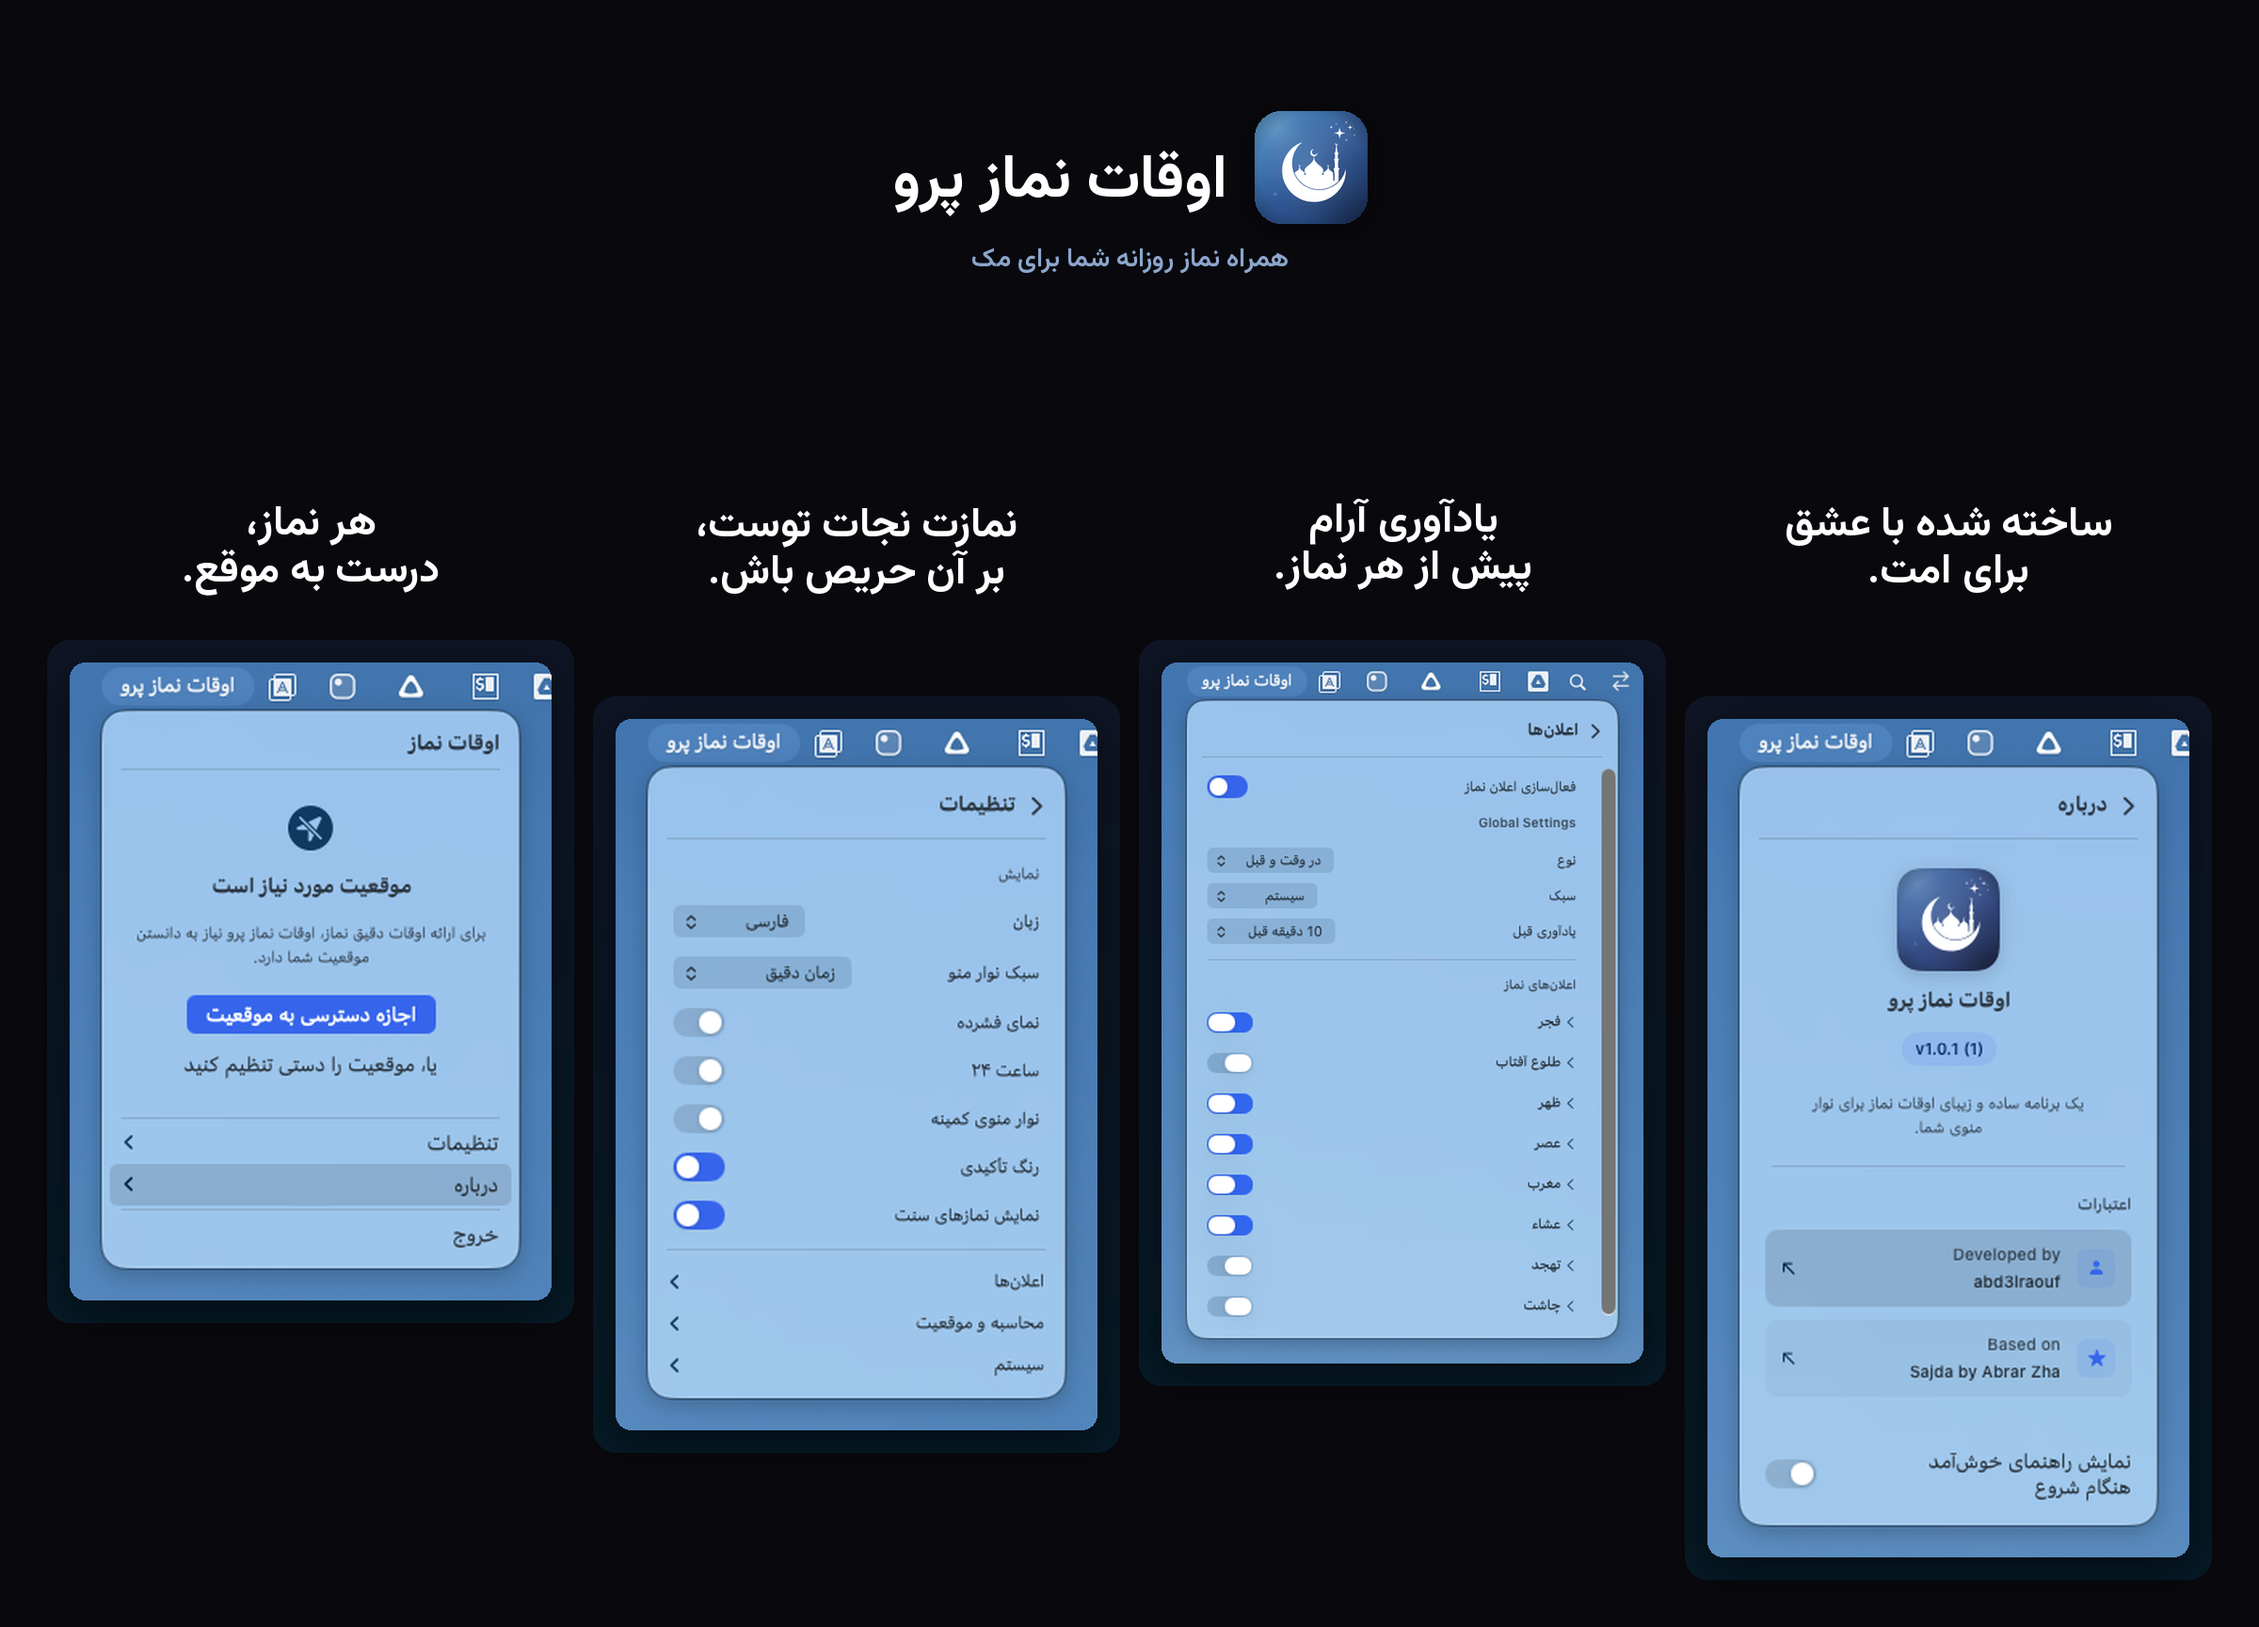
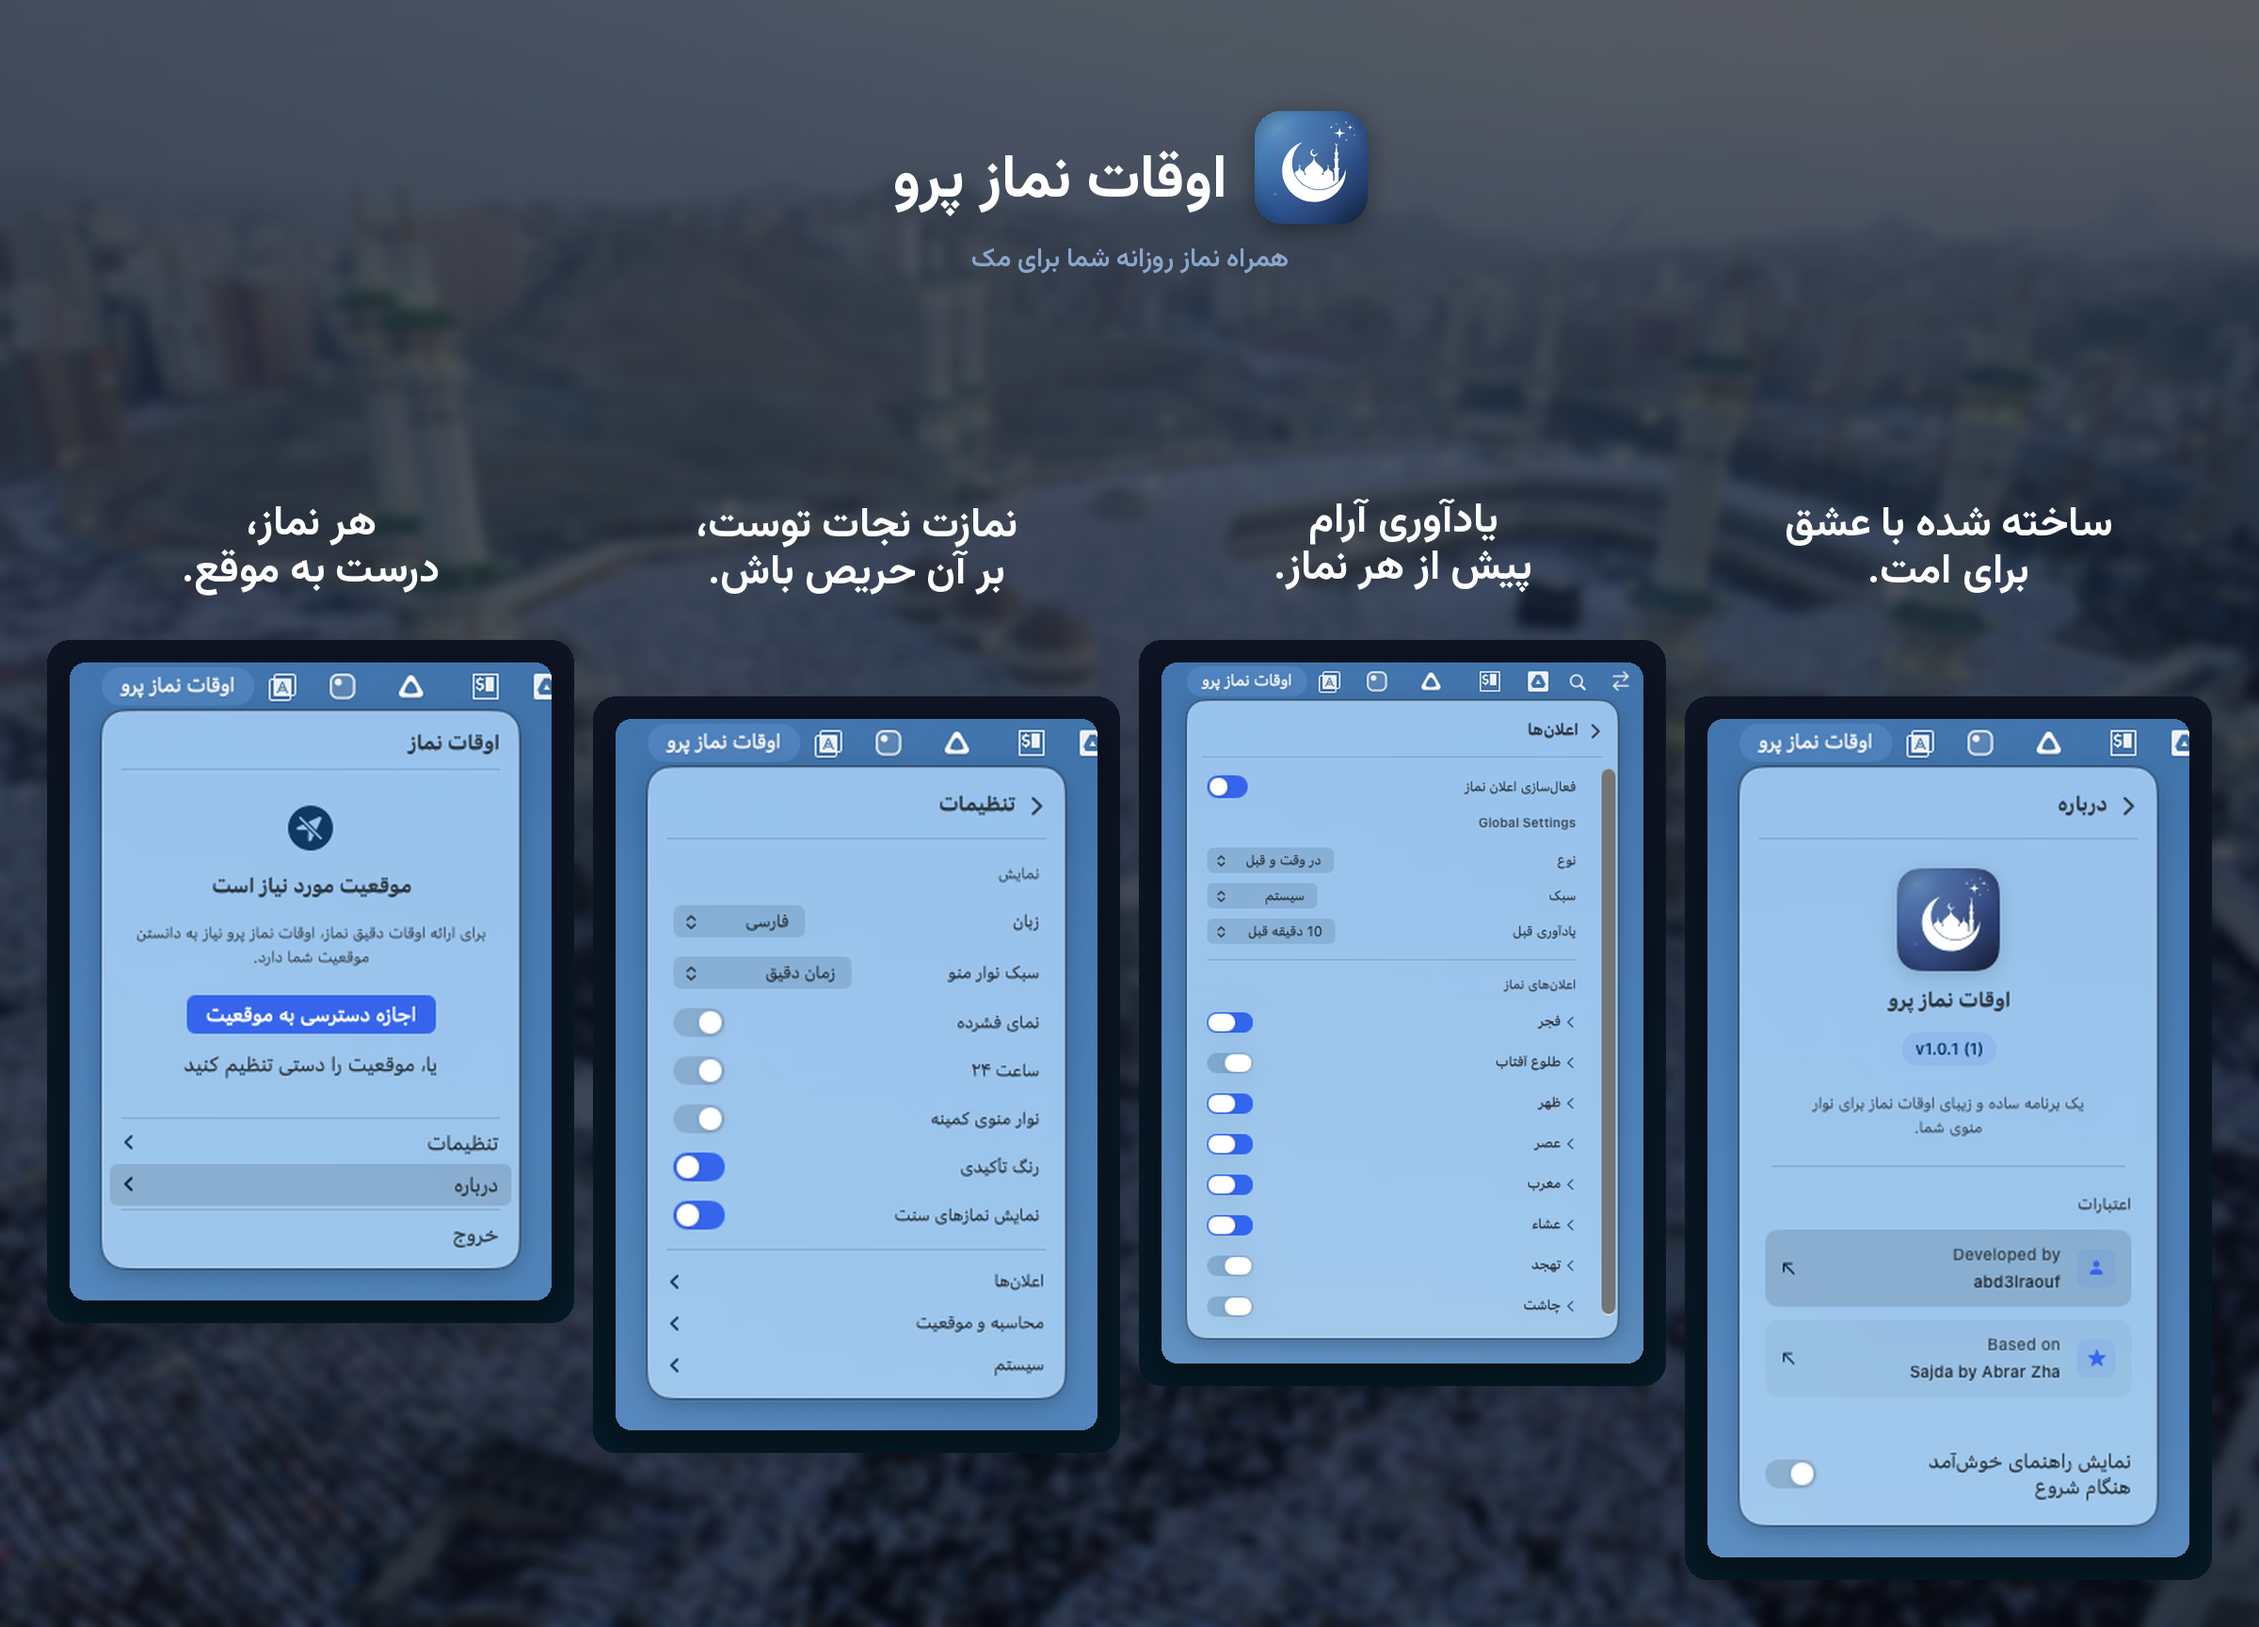
feat: add Makkah background image to screenshot collages
- Use blurred/darkened Makkah photo as background instead of flat color
- Add bg.jpg asset and make_bg_canvas() helper in generator
- Regenerate all language collages with new background

diff --git a/scripts/generate-screenshots.py b/scripts/generate-screenshots.py
@@ -21,7 +21,7 @@ import os
 import sys
 from pathlib import Path
 
-from PIL import Image, ImageDraw, ImageFilter, ImageFont
+from PIL import Image, ImageDraw, ImageEnhance, ImageFilter, ImageFont
 
 # ─── Configuration ───────────────────────────────────────────────────────────
 
@@ -59,6 +59,9 @@ SHADOW_OFFSET = (0, 10)
 
 # Colors
 BG_COLOR = (8, 8, 13)
+BG_TINT = (5, 10, 25)        # subtle dark blue tint over background image
+BG_BLUR = 6                   # light blur to keep image recognizable
+BG_DARKEN = 0.55              # brightness multiplier (0 = black, 1 = original)
 CARD_GRADIENT_TOP = (15, 20, 36)
 CARD_GRADIENT_BOTTOM = (5, 26, 38)
 SUBTITLE_COLOR = (140, 166, 204)
@@ -267,6 +270,37 @@ def load_icon() -> Image.Image:
     return Image.open(icon_path).convert("RGBA")
 
 
+def make_bg_canvas(width: int, height: int) -> Image.Image:
+    """Create a canvas using the background image (blurred, darkened, tinted)."""
+    bg_path = PROJECT_ROOT / "art" / "bg.jpg"
+    if not bg_path.exists():
+        # Fallback to flat color
+        return Image.new("RGBA", (width, height), (*BG_COLOR, 255))
+
+    bg = Image.open(bg_path).convert("RGBA")
+
+    # Cover-crop: scale to fill canvas, then center-crop
+    scale = max(width / bg.width, height / bg.height)
+    new_w = round(bg.width * scale)
+    new_h = round(bg.height * scale)
+    bg = bg.resize((new_w, new_h), Image.LANCZOS)
+    left = (new_w - width) // 2
+    top = (new_h - height) // 2
+    bg = bg.crop((left, top, left + width, top + height))
+
+    # Blur
+    bg = bg.filter(ImageFilter.GaussianBlur(BG_BLUR))
+
+    # Darken
+    bg = ImageEnhance.Brightness(bg).enhance(BG_DARKEN)
+
+    # Tint overlay
+    tint = Image.new("RGBA", (width, height), (*BG_TINT, 80))
+    bg = Image.alpha_composite(bg, tint)
+
+    return bg
+
+
 # ─── Drawing ─────────────────────────────────────────────────────────────────
 
 def draw_card(canvas: Image.Image, x: int, y: int, screenshot: Image.Image):
@@ -369,7 +403,7 @@ def generate_collage(lang: str, max_card_height: int, icon: Image.Image) -> Path
     canvas_height = (CANVAS_PADDING * 2 + HEADER_HEIGHT + header_gap
                      + max_tagline_row_height + TAGLINE_GAP + cards_area_height)
 
-    canvas = Image.new("RGBA", (canvas_width, canvas_height), (*BG_COLOR, 255))
+    canvas = make_bg_canvas(canvas_width, canvas_height)
     draw_header(canvas, lang, icon)
 
     cards_top_y = canvas_height - CANVAS_PADDING - cards_area_height
